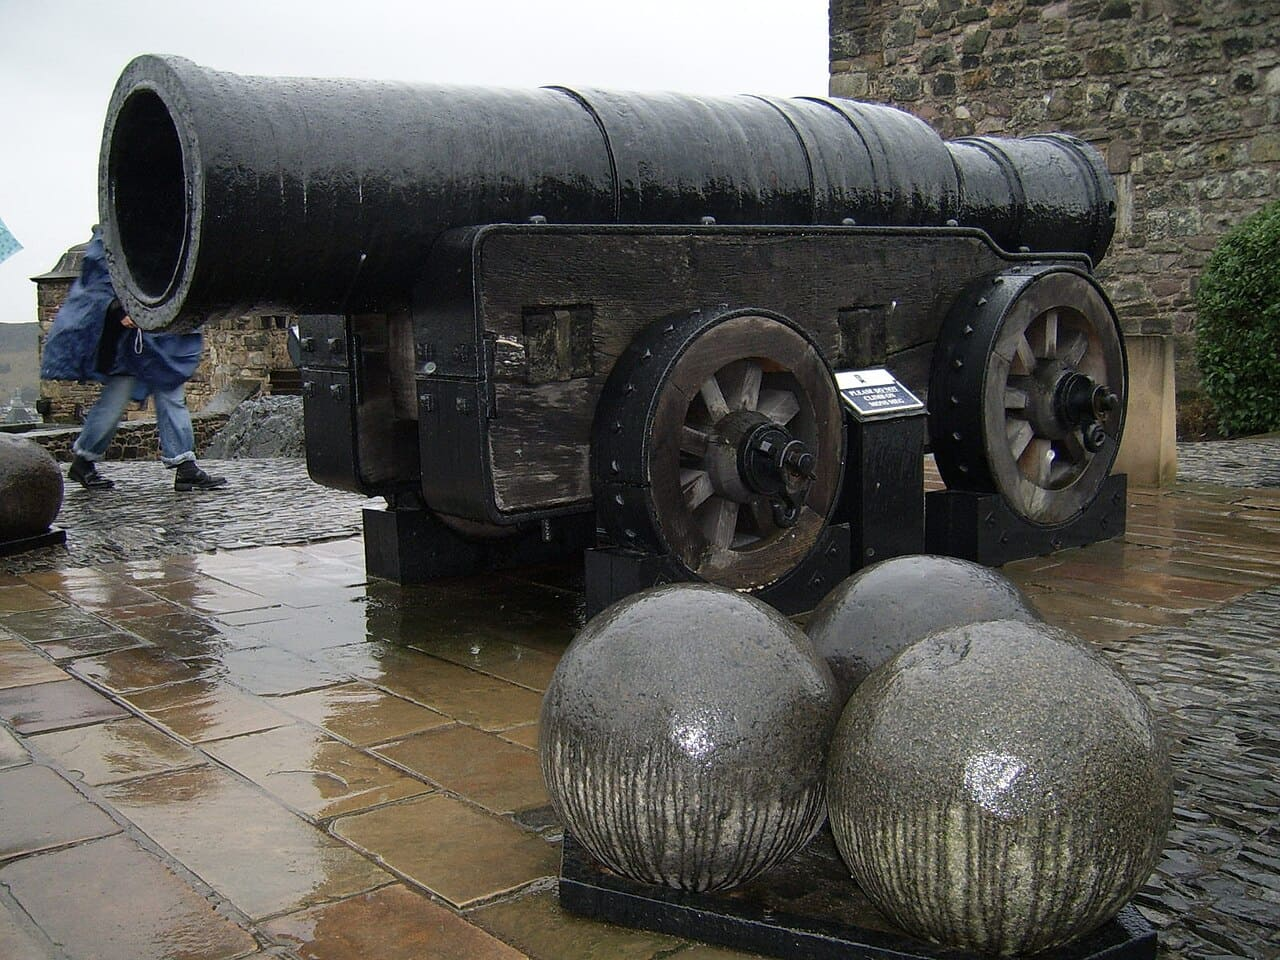
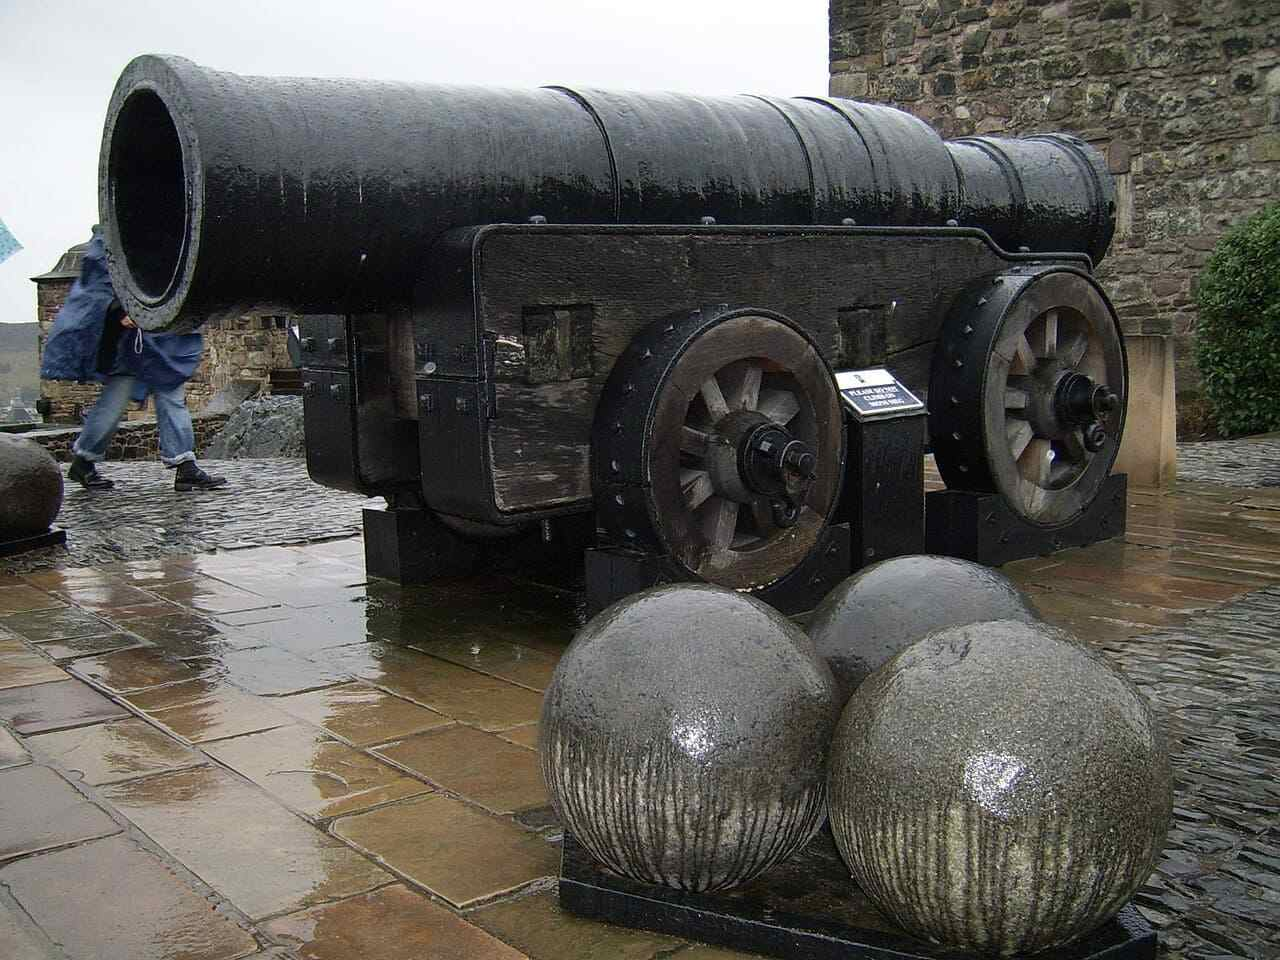
compressed images even more + added metatags +  links in pages

Changed region(s): [[0.75, 0.7812, 0.8125, 0.8438], [0.5312, 0.75, 0.5625, 0.7812]]

diff --git a/index.html b/index.html
@@ -9,6 +9,29 @@
     <title>Gigaboulet - L'Histoire des Boulets de Canon | Histoire Militaire Française</title>
     <link rel="stylesheet" href="styles.css">
     <link rel="shortcut icon" href="/favicon.ico" />
+    <link rel="icon" href="/favicon.ico" type="image/x-icon" />
+    <meta property="og:title" content="Histoire des Boulets de Canon | Gigaboulet">
+    <meta property="og:description" content="Découvrez l'histoire fascinante des boulets de canon à travers les siècles.">
+    <meta property="og:image" content="https://www.gigaboulet.com/assets/twitterimage.jpg">
+    <meta property="og:url" content="https://www.gigaboulet.com/histoire.html">
+    <meta name="twitter:card" content="summary_large_image">
+    <meta name="twitter:title" content="Histoire des Boulets de Canon | Gigaboulet">
+    <meta name="twitter:description" content="Découvrez l'histoire fascinante des boulets de canon à travers les siècles.">
+    <meta name="twitter:image" content="https://www.gigaboulet.com/assets/twitterimage.jpg">
+    <script type="application/ld+json">
+        {
+          "@context": "https://schema.org",
+          "@type": "WebSite",
+          "name": "Gigaboulet",
+          "image": "https://www.gigaboulet.com/assets/twitter-image.jpg",
+          "url": "https://www.gigaboulet.com/",
+          "potentialAction": {
+            "@type": "SearchAction",
+            "target": "https://www.gigaboulet.com/search?q={search_term_string}",
+            "query-input": "required name=search_term_string"
+          }
+        }
+        </script>
 </head>
 <!-- Google Analytics -->
 <script async src="https://www.googletagmanager.com/gtag/js?id=G-T63K4QVKHY"></script>
@@ -39,7 +62,9 @@
 
     <main>
         <section class="hero">
-            <h2>Explorez l'Histoire de l'Artillerie</h2>
+            <a href="histoire.html" class="home-title">
+                <h2>Explorez l'Histoire de l'Artillerie</h2>
+            </a>
             <p>Des boulets de canon médiévaux aux projectiles de la Renaissance, découvrez l'évolution de l'artillerie française et mondiale.</p>
         </section>
 

diff --git a/histoire.html b/histoire.html
@@ -8,6 +8,19 @@
     <meta name="author" content="Gigaboulet">
     <title>Histoire des Boulets de Canon | Gigaboulet</title>
     <link rel="stylesheet" href="styles.css">
+    <script type="application/ld+json">
+        {
+          "@context": "https://schema.org",
+          "@type": "WebSite",
+          "name": "Gigaboulet",
+          "url": "https://www.gigaboulet.com/",
+          "potentialAction": {
+            "@type": "SearchAction",
+            "target": "https://www.gigaboulet.com/search?q={search_term_string}",
+            "query-input": "required name=search_term_string"
+          }
+        }
+        </script>
 </head>
 <!-- Google Analytics -->
 <script async src="https://www.googletagmanager.com/gtag/js?id=G-T63K4QVKHY"></script>
@@ -38,11 +51,11 @@
         <!-- Timeline -->
         <div class="timeline-nav" style="position: sticky; top: 0; background: var(--primary-color); padding: 1rem; z-index: 100; margin-bottom: 2rem;">
             <ul style="display: flex; justify-content: center; gap: 2rem; list-style: none;">
-                <li><a href="#origines" style="color: white; text-decoration: none;">Origines</a></li>
-                <li><a href="#moyen-age" style="color: white; text-decoration: none;">Moyen Âge</a></li>
-                <li><a href="#renaissance" style="color: white; text-decoration: none;">Renaissance</a></li>
-                <li><a href="#age-classique" style="color: white; text-decoration: none;">Âge Classique</a></li>
-                <li><a href="#ere-napoleonienne" style="color: white; text-decoration: none;">Ère Napoléonienne</a></li>
+                <li><a href="#origines" class="subnav">Origines</a></li>
+                <li><a href="#moyen-age" class="subnav">Moyen Âge</a></li>
+                <li><a href="#renaissance" class="subnav">Renaissance</a></li>
+                <li><a href="#age-classique" class="subnav">Âge Classique</a></li>
+                <li><a href="#ere-napoleonienne" class="subnav">Ère Napoléonienne</a></li>
             </ul>
         </div>
 

diff --git a/collections.html b/collections.html
@@ -182,14 +182,22 @@
             <h2>Visiter la Collection</h2>
             <p style="margin-top: 1rem;">Notre collection est accessible aux chercheurs et passionnés d'histoire sur rendez-vous.</p>
             <div class="contact-button" style="margin-top: 2rem;">
-                <a href="#contact" style="display: inline-block; background: var(--secondary-color); color: white; padding: 1rem 2rem; border-radius: 4px; text-decoration: none; transition: background-color 0.3s;">
+                <a id="appointmentButton" onclick="showMessage()" style="display: inline-block; background: var(--secondary-color); color: white; padding: 1rem 2rem; border-radius: 4px; text-decoration: none; transition: background-color 0.3s; cursor: pointer;">
                     Prendre Rendez-vous
                 </a>
             </div>
+            <p id="availabilityMessage" style="margin-top: 1rem; color: red; font-weight: bold; display: none;">
+                En raison de forte demande, nous n'avons plus de disponibilités. Réessayez ultérieurement.
+            </p>
         </section>
     </main>
     <footer>
         <p>&copy; 2024 Gigaboulet - L'histoire des boulets de canon. Tous droits réservés.</p>
     </footer>
+    <script>
+        function showMessage() {
+            document.getElementById("availabilityMessage").style.display = "block";
+        }
+    </script>
 </body>
 </html>

diff --git a/styles.css b/styles.css
@@ -6,6 +6,24 @@
     --light-bg: #ECF0F1;
 }
 
+.home-title{
+    text-decoration: none;
+    color: inherit;
+}
+
+.home-title:hover {
+    color: red;
+}
+
+.subnav{
+    color: white;
+    text-decoration: none;
+}
+
+.subnav:hover {
+    color:red;
+}
+
 * {
     margin: 0;
     padding: 0;
